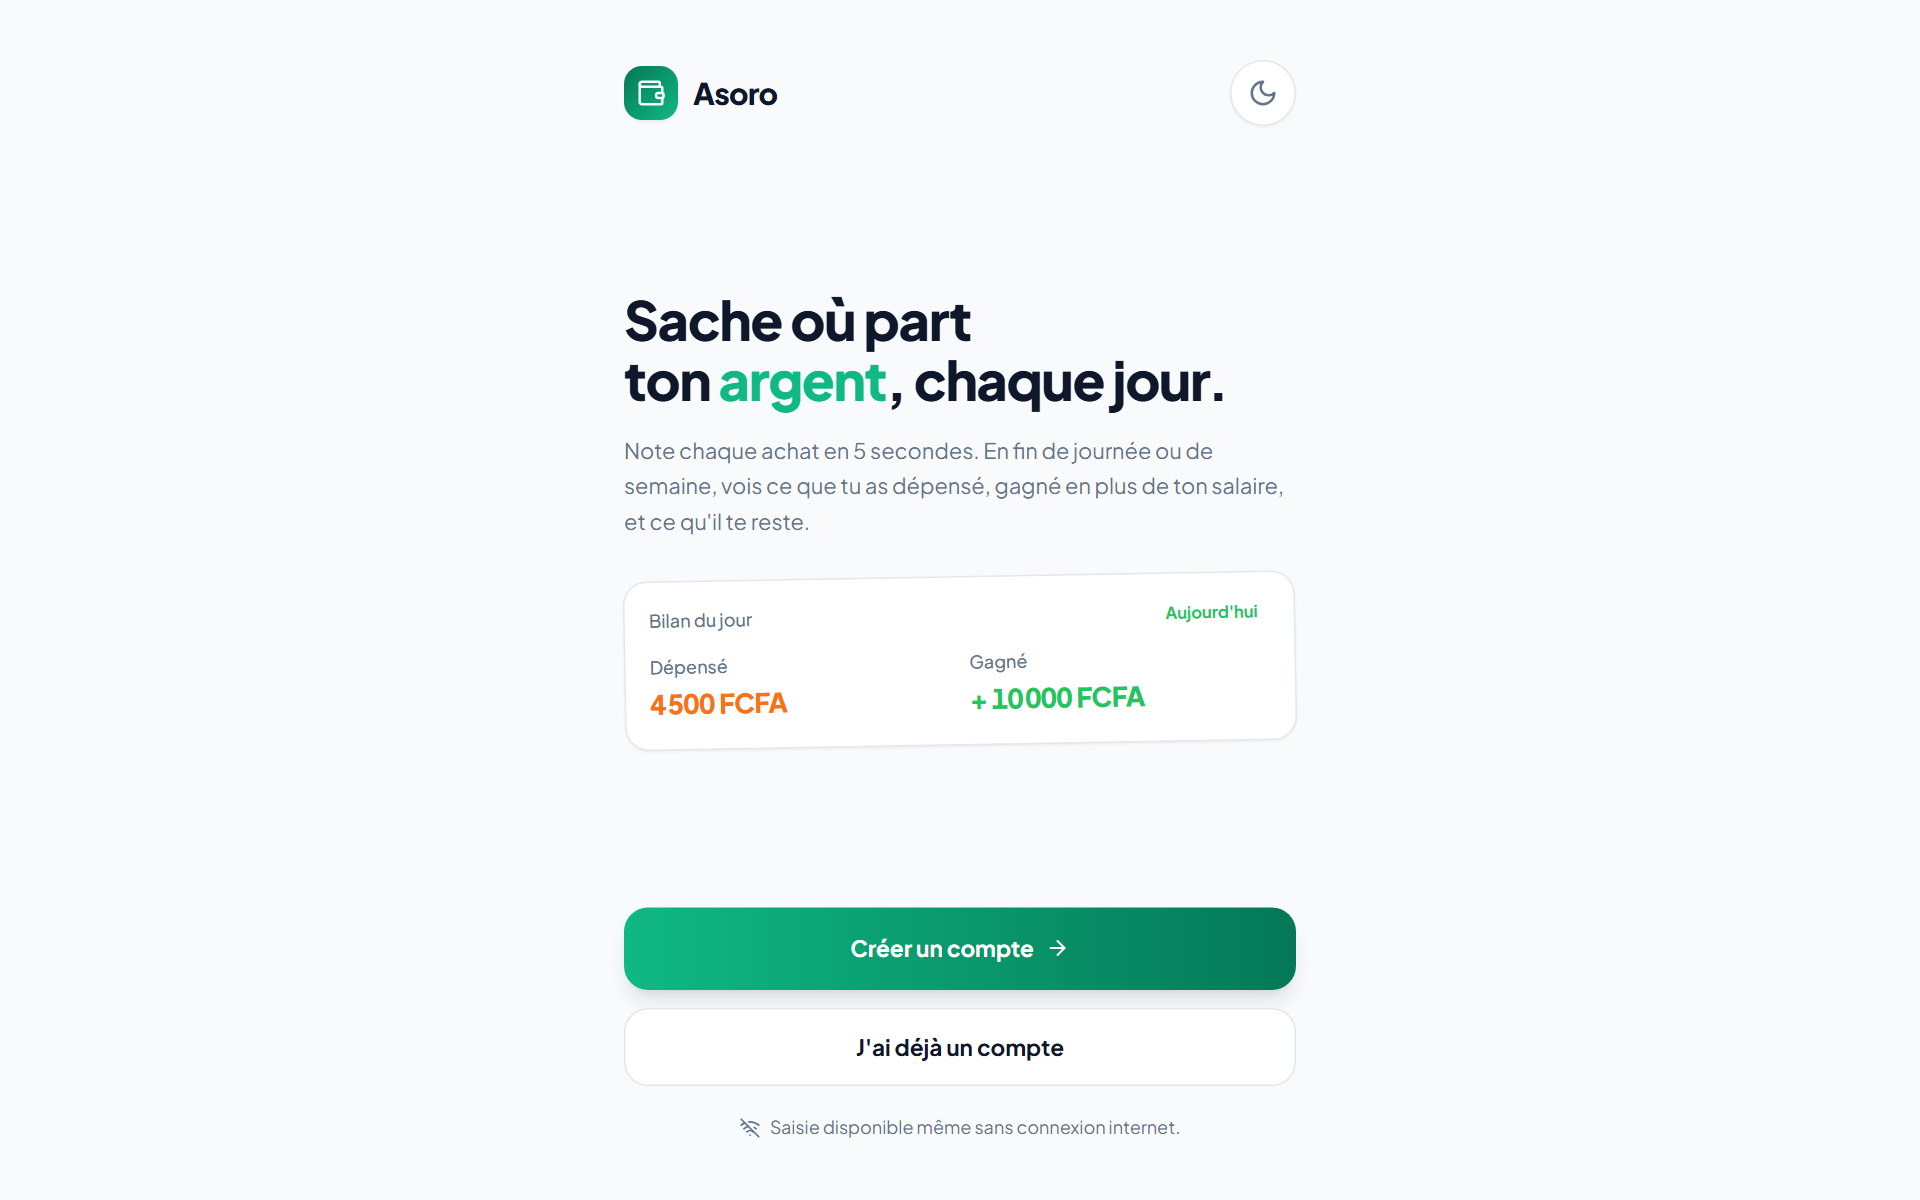
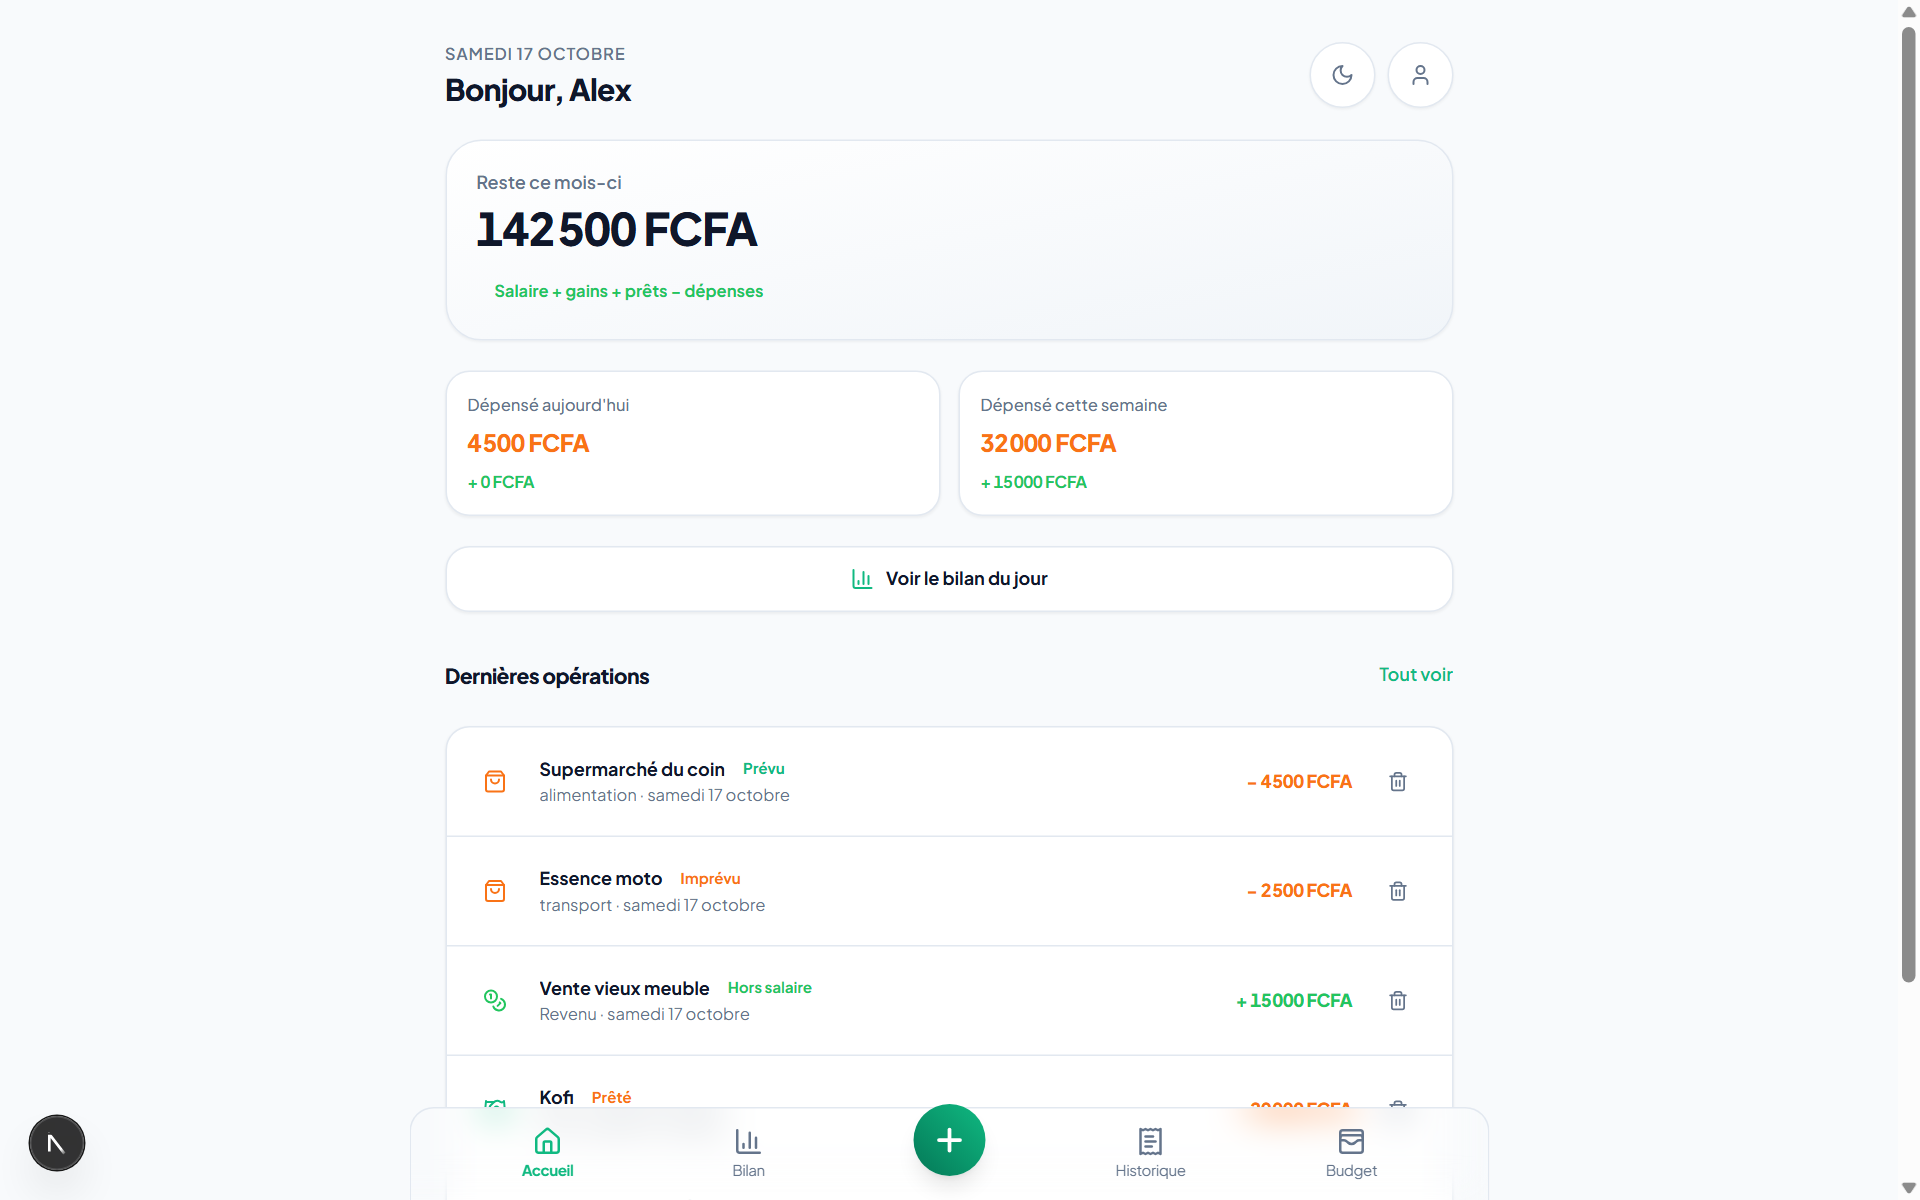
ajuste les devises supportees a FCFA, EUR, USD et Naira

diff --git a/src/lib/utils/currency.test.ts b/src/lib/utils/currency.test.ts
@@ -19,10 +19,8 @@ describe("formatAmount", () => {
   it("formate les devises internationales avec le bon symbole", () => {
     expect(formatAmount(1500, "EUR")).toMatch(/1[\s\u202f]500 €/);
     expect(formatAmount(2000, "USD")).toMatch(/2[\s\u202f]000 \$/);
-    expect(formatAmount(3000, "CAD")).toMatch(/3[\s\u202f]000 CA\$/);
-    expect(formatAmount(500, "GBP")).toMatch(/500 £/);
-    expect(formatAmount(50000, "GNF")).toMatch(/50[\s\u202f]000 FG/);
-    expect(formatAmount(800, "MAD")).toMatch(/800 DH/);
+    expect(formatAmount(50000, "NGN")).toMatch(/50[\s\u202f]000 ₦/);
+    expect(formatAmount(50000, "Naira")).toMatch(/50[\s\u202f]000 ₦/);
   });
 });
 
@@ -40,22 +38,22 @@ describe("formatSignedAmount", () => {
   it("gère le signe négatif avec différentes devises", () => {
     expect(formatSignedAmount(-100, "EUR")).toBe("− 100 €");
     expect(formatSignedAmount(-50, "USD")).toBe("− 50 $");
+    expect(formatSignedAmount(-2500, "NGN")).toMatch(/^− 2[\s\u202f]500 ₦$/);
   });
 });
 
 describe("getCurrencySymbol et SUPPORTED_CURRENCIES", () => {
-  it("contient exactement les 7 devises demandées", () => {
+  it("contient exactement les 4 devises demandées (FCFA, EUR, USD, Naira)", () => {
     const codes = SUPPORTED_CURRENCIES.map((c) => c.code);
-    expect(codes).toEqual(["FCFA", "EUR", "USD", "CAD", "GBP", "GNF", "MAD"]);
+    expect(codes).toEqual(["FCFA", "EUR", "USD", "NGN"]);
   });
 
   it("renvoie les bons symboles pour chaque code", () => {
     expect(getCurrencySymbol("FCFA")).toBe("FCFA");
     expect(getCurrencySymbol("EUR")).toBe("€");
     expect(getCurrencySymbol("USD")).toBe("$");
-    expect(getCurrencySymbol("CAD")).toBe("CA$");
-    expect(getCurrencySymbol("GBP")).toBe("£");
-    expect(getCurrencySymbol("GNF")).toBe("FG");
-    expect(getCurrencySymbol("MAD")).toBe("DH");
+    expect(getCurrencySymbol("NGN")).toBe("₦");
+    expect(getCurrencySymbol("NAIRA")).toBe("₦");
+    expect(getCurrencySymbol("₦")).toBe("₦");
   });
 });

diff --git a/src/lib/utils/currency.ts b/src/lib/utils/currency.ts
@@ -6,14 +6,7 @@
  * - Support étendu multi-devises (FCFA, EUR, USD, CAD, GBP, GNF, MAD)
  */
 
-export type SupportedCurrency =
-  | "FCFA"
-  | "EUR"
-  | "USD"
-  | "CAD"
-  | "GBP"
-  | "GNF"
-  | "MAD";
+export type SupportedCurrency = "FCFA" | "EUR" | "USD" | "NGN";
 
 export interface CurrencyConfig {
   code: SupportedCurrency;
@@ -25,10 +18,7 @@ export const SUPPORTED_CURRENCIES: CurrencyConfig[] = [
   { code: "FCFA", symbol: "FCFA", label: "FCFA — Franc CFA" },
   { code: "EUR", symbol: "€", label: "EUR (€) — Euro" },
   { code: "USD", symbol: "$", label: "USD ($) — Dollar américain" },
-  { code: "CAD", symbol: "CA$", label: "CAD ($) — Dollar canadien" },
-  { code: "GBP", symbol: "£", label: "GBP (£) — Livre sterling" },
-  { code: "GNF", symbol: "FG", label: "GNF (FG) — Franc guinéen" },
-  { code: "MAD", symbol: "DH", label: "MAD (DH) — Dirham marocain" },
+  { code: "NGN", symbol: "₦", label: "Naira (₦) — Naira nigérian" },
 ];
 
 /**
@@ -43,18 +33,10 @@ export function getCurrencySymbol(currency: string = "FCFA"): string {
     case "USD":
     case "$":
       return "$";
-    case "CAD":
-    case "CA$":
-      return "CA$";
-    case "GBP":
-    case "£":
-      return "£";
-    case "GNF":
-    case "FG":
-      return "FG";
-    case "MAD":
-    case "DH":
-      return "DH";
+    case "NGN":
+    case "NAIRA":
+    case "₦":
+      return "₦";
     case "FCFA":
     case "XOF":
     case "XAF":

diff --git a/src/content/fr.ts b/src/content/fr.ts
@@ -176,10 +176,7 @@ export const content = {
       fcfa: "FCFA — Franc CFA",
       eur: "EUR (€) — Euro",
       usd: "USD ($) — Dollar américain",
-      cad: "CAD ($) — Dollar canadien",
-      gbp: "GBP (£) — Livre sterling",
-      gnf: "GNF (FG) — Franc guinéen",
-      mad: "MAD (DH) — Dirham marocain",
+      ngn: "Naira (₦) — Naira nigérian",
     },
   },
   common: {

diff --git a/src/components/profile/ProfileView.tsx b/src/components/profile/ProfileView.tsx
@@ -62,6 +62,7 @@ export function ProfileView({
         const cur = res.data.currency;
         if (cur === "€") setCurrency("EUR");
         else if (cur === "$") setCurrency("USD");
+        else if (cur === "₦" || cur.toUpperCase() === "NAIRA") setCurrency("NGN");
         else setCurrency(cur);
       }
     }

diff --git a/cahier-des-charges.md b/cahier-des-charges.md
@@ -97,7 +97,7 @@ Le MVP compte 21 stories, chacune avec des critères d'acceptation testables ; l
 | **B4** | En tant qu'utilisateur, je consulte mon bilan sur 6 mois (semestre) ou 1 an (année). | Sélecteurs Semestre et Année disponibles ; calcul immédiat des totaux dépensé, gagné hors salaire, cumul des salaires et économies ; répartition par catégorie sur la période étendue. |
 | **H1** | En tant qu'utilisateur, je consulte mon historique. | Liste groupée par jour ; filtres Tout, Dépenses, Revenus ; filtre par période et catégorie. |
 | **P1** | En tant qu'utilisateur, je choisis mon thème (clair ou sombre). | Thème clair ou sombre mémorisé sur l'appareil et appliqué immédiatement. |
-| **P2** | En tant qu'utilisateur, je choisis ma devise parmi une sélection internationale. | Choix parmi FCFA, EUR, USD, CAD, GBP, GNF, MAD ; formatage instantané des montants avec symbole approprié dans toute l'interface sans rechargement. |
+| **P2** | En tant qu'utilisateur, je choisis ma devise parmi la sélection disponible. | Choix parmi FCFA, EUR (€), USD ($) et Naira (₦) ; formatage instantané des montants avec symbole approprié dans toute l'interface sans rechargement. |
 | **D5** | En tant qu'utilisateur, je définis une dépense prévue comme récurrente et j'ajuste son montant lors de sa reconduction. | Option « Récurrente » lors de la création d'une prévue mensuelle ; reconduction automatique à chaque début de période ; possibilité pour l'utilisateur de modifier et d'ajuster le montant au début ou à la fin de chaque mois. |
 | **AD1** | En tant qu'administrateur, j'accède à un espace sécurisé de modération et de suivi. | Accès strictement réservé aux utilisateurs ayant le rôle `admin` ; consultation de la liste des comptes inscrits (nom, prénom, email, date d'inscription, statut) ; actions de modération (activer, suspendre, bannir) ; statistiques globales anonymes ; aucun accès aux montants financiers des utilisateurs (protection RLS stricte). |
 | **G1** | En tant que visiteur, je comprends la promesse de l'application. | L'accueil présente la promesse en une phrase, un aperçu de bilan et les boutons Créer un compte et Se connecter. |
@@ -121,7 +121,7 @@ Le périmètre couvre les écrans essentiels de l'application, organisés pour u
 | **Historique** | Utilisateur | Opérations groupées par jour, filtrables, suppression |
 | **Budget : dépenses prévues** | Utilisateur | Filtre jour, semaine, mois ; gestion des dépenses prévues récurrentes (loyer, abonnements) avec ajustement de montant ; prévu, dépensé, reste, progression, bouton Ajouter un règlement |
 | **Budget : revenus et prêts** | Utilisateur | Salaire mensuel modifiable en haut, autres revenus, prêts |
-| **Profil** | Utilisateur | Sélecteur de devise étendu (FCFA, EUR, USD, CAD, GBP, GNF, MAD), thème, code PIN de sécurité, déconnexion, suppression du compte |
+| **Profil** | Utilisateur | Sélecteur de devise (FCFA, EUR, USD, Naira), thème, code PIN de sécurité, déconnexion, suppression du compte |
 | **Espace Administrateur** | Administrateur | Tableau de bord réservé aux administrateurs : liste des utilisateurs inscrits, statut (actif, suspendu, banni), statistiques anonymes d'usage. |
 | **Bandeau d’état de connexion** | Utilisateur | Visible sur tous les écrans connectés : Hors ligne, X opérations en attente, Synchronisé. |
 

diff --git a/capture/RAPPORT_TESTS.md b/capture/RAPPORT_TESTS.md
@@ -1,6 +1,6 @@
 # Rapport de Test Visuel — Application Asoro
 
-*Généré le 17/10/2026 16:27:03*
+*Généré le 17/10/2026 17:11:27*
 
 Ce dossier regroupe les captures d'écran réelles issues des tests automatiques sur l'ensemble des écrans et fonctionnalités de l'application Asoro.
 
@@ -16,7 +16,7 @@ Ce dossier regroupe les captures d'écran réelles issues des tests automatiques
 | 8 | **Finances, Salaires & Prêts** | Gestion du salaire mensuel récurrent, revenus exceptionnels, dettes et créances avec calcul instantané du net. | [08_finances_et_prets.png](./08_finances_et_prets.png) |
 | 9 | **Bilan & Analyse financière** | Bilan périodique (Jour, Semaine, Mois) : solde net, moyenne disponible par jour, graphique d'évolution et répartition par catégorie. | [09_bilan.png](./09_bilan.png) |
 | 10 | **Historique des opérations** | Journal chronologique groupé par jour, totaux quotidiens, filtres (Tout, Dépenses, Revenus, Prêts) et suppression avec confirmation. | [10_historique.png](./10_historique.png) |
-| 11 | **Profil & Paramètres** | Choix de la devise (FCFA, EUR, USD), bascule de thème clair/sombre, option 'Solde figé à minuit', déconnexion et suppression sécurisée. | [11_profil.png](./11_profil.png) |
+| 11 | **Profil & Paramètres** | Choix de la devise (FCFA, EUR, USD, Naira), bascule de thème clair/sombre, option 'Solde figé à minuit', déconnexion et suppression sécurisée. | [11_profil.png](./11_profil.png) |
 | 12 | **Tableau de bord — Thème sombre** | Rendu optimal et contrasté du thème sombre conforme à la maquette et aux critères WCAG AA. | [12_mode_sombre.png](./12_mode_sombre.png) |
 | 13 | **Déverrouillage par code PIN** | Écran de sécurité tactile : saisie du PIN à 4 chiffres, protection anti-brute-force (3 essais max) et bouton de secours 'PIN oublié'. | [13_verrouillage_pin.png](./13_verrouillage_pin.png) |
 | 14 | **Bilan — Vue Semestre (6 mois)** | Analyse financière semestrielle avec graphique d'évolution sur 6 barres mensuelles, totaux cumulés et répartition par catégorie. | [14_bilan_semestre.png](./14_bilan_semestre.png) |
@@ -78,7 +78,7 @@ Ce dossier regroupe les captures d'écran réelles issues des tests automatiques
 ![Historique des opérations](./10_historique.png)
 
 ### 11. Profil & Paramètres
-> Choix de la devise (FCFA, EUR, USD), bascule de thème clair/sombre, option 'Solde figé à minuit', déconnexion et suppression sécurisée.
+> Choix de la devise (FCFA, EUR, USD, Naira), bascule de thème clair/sombre, option 'Solde figé à minuit', déconnexion et suppression sécurisée.
 
 ![Profil & Paramètres](./11_profil.png)
 

diff --git a/AGENTS.md b/AGENTS.md
@@ -148,7 +148,7 @@ Si tu es bloqué, dis pourquoi et propose deux options. N'invente jamais de donn
 | 7 | PWA et mode hors ligne |
 | 8 | Finitions : accessibilité, états vides et erreurs, performance |
 | 9 | Déploiement et vérification finale de sécurité |
-| 10 | Vues Semestre (6 mois) & Année (1 an) dans le Bilan, et choix de devises étendu dans le Profil (FCFA, EUR, USD, CAD, GBP, GNF, MAD) |
+| 10 | Vues Semestre (6 mois) & Année (1 an) dans le Bilan, et choix de devises dans le Profil (FCFA, EUR, USD, Naira) |
 | 11 | Dépenses prévues récurrentes, reconduction automatique et ajustement des montants en début ou fin de période |
 | 12 | Espace Administrateur sécurisé (rôle admin, liste des utilisateurs, modération des comptes, statistiques anonymes d'usage) |
 
